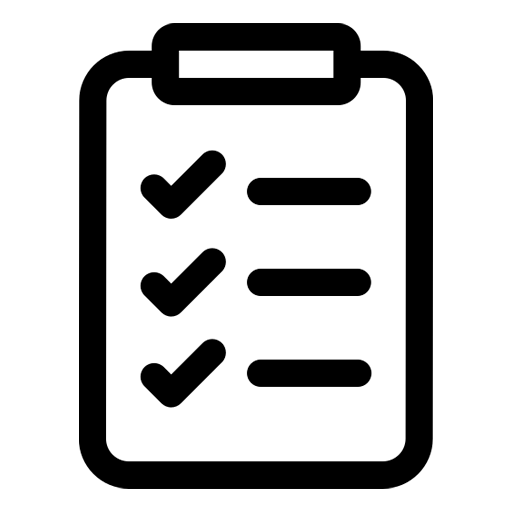
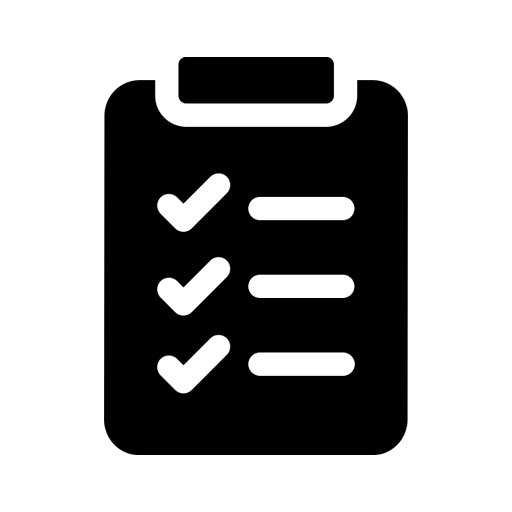
изменен лого

diff --git a/app/auth/signin/page.tsx b/app/auth/signin/page.tsx
@@ -1,0 +1,133 @@
+'use client';
+
+import Loading from '@/app/loading';
+import { signIn, useSession } from 'next-auth/react';
+import { useSearchParams, useRouter } from 'next/navigation';
+import { useState, useEffect } from 'react';
+import { EyeIcon, EyeSlashIcon } from '@heroicons/react/24/outline'; // Импортируем иконки глаз
+
+export default function SignInPage() {
+	const router = useRouter();
+	const searchParams = useSearchParams();
+	const callbackUrl = searchParams.get('callbackUrl') || '/'; // Получаем изначальную страницу или используем `/`
+	const { data: session, status } = useSession(); // добавлен статус сессии
+	const [email, setEmail] = useState('');
+	const [password, setPassword] = useState('');
+	const [nickName, setNickName] = useState('');
+	const [error, setError] = useState('');
+	const [isLoading, setisLoading] = useState(false);
+	const [showPassword, setShowPassword] = useState(false); // Новое состояние для управления видимостью пароля
+
+	useEffect(() => {
+		if (status === 'authenticated') {
+			console.log('sessionUseEf:', session);
+			// Если пользователь уже аутентифицирован, сразу перенаправляем
+			router.push(callbackUrl);
+		}
+	}, [status, router, callbackUrl, session]);
+
+	const handleSignIn = async (e: React.FormEvent) => {
+		e.preventDefault();
+		//setisLoading(true);
+		try {
+			const result = await signIn('credentials', {
+				redirect: false,
+				email,
+				password,
+				nickName,
+				callbackUrl: callbackUrl,
+			});
+
+			if (!result?.ok) {
+				setError('Неверный email или пароль.');
+			} else {
+				setError('');
+				setisLoading(true);
+				window.location.href = callbackUrl;
+			}
+		} catch (err) {
+			setError('Ошибка при входе. Попробуйте снова.');
+			console.error(err);
+		}
+	};
+
+	if (isLoading) {
+		return <Loading />;
+	}
+
+	return (
+		<div className='container mx-auto px-4 flex flex-col space-y-6 max-w-screen-sm items-center'>
+			<div className='p-8 flex flex-col items-center space-y-6'>
+				<h1 className='text-4xl text-center font-bold mb-4'>Вход</h1>
+
+				<form onSubmit={handleSignIn} className='w-full max-w-md space-y-4'>
+					{error && <div className='text-red-500 text-sm'>{error}</div>}
+					<div className='flex flex-col'>
+						<label htmlFor='email' className='mb-1 font-medium'>
+							Email
+						</label>
+						<input
+							type='email'
+							id='email'
+							value={email}
+							onChange={e => setEmail(e.target.value)}
+							required
+							className='input input-bordered w-full max-w-xs'
+						/>
+					</div>
+					<div className='flex flex-col'>
+						<label htmlFor='nickName' className='mb-1 font-medium'>
+							Никнейм (опционально)
+						</label>
+						<input
+							type='text'
+							id='nickName'
+							value={nickName}
+							onChange={e => setNickName(e.target.value)}
+							className='input input-bordered w-full max-w-xs'
+						/>
+					</div>
+					<div className='flex flex-col'>
+						<div className='flex items-center'>
+							<label htmlFor='password' className='mb-1 font-medium mr-2'>
+								Пароль
+							</label>
+							<button
+								type='button'
+								onClick={() => setShowPassword(!showPassword)}
+								className='ml-auto'
+							>
+								{showPassword ? (
+									<EyeSlashIcon className='h-6 w-6 text-gray-600' />
+								) : (
+									<EyeIcon className='h-6 w-6 text-gray-600' />
+								)}
+							</button>
+						</div>
+						<div className='relative w-full max-w-xs'>
+							<input
+								type={showPassword ? 'text' : 'password'}
+								id='password'
+								value={password}
+								onChange={e => setPassword(e.target.value)}
+								required
+								className='input input-bordered w-full pr-16'
+							/>
+						</div>
+					</div>
+
+					<button type='submit' className='btn btn-outline w-full'>
+						Войти
+					</button>
+				</form>
+
+				<button
+					className='btn btn-outline w-full'
+					onClick={() => signIn('google', { callbackUrl })}
+				>
+					Войти через Google
+				</button>
+			</div>
+		</div>
+	);
+}

diff --git a/app/loading.tsx b/app/loading.tsx
@@ -1,0 +1,17 @@
+import LoadingBars from "@/app/components/LoadingBars";
+
+export default function Loading() {
+	return (
+		<div className='container mx-auto px-4 flex flex-col space-y-6 max-w-screen-sm items-center '>
+			<div className='p-8 flex flex-col items-center space-y-6'>
+				<h1 className='text-3xl text-center font-bold tracking-tight text-gray-900'>
+					Школа112 - Лучший проект для помощи ученику
+				</h1>
+				<h3 className='text-2xl text-center font-bold mb-4'>
+					Загрузка данных...
+				</h3>
+				<LoadingBars />
+			</div>
+		</div>
+	);
+}

diff --git a/app/manifest.ts b/app/manifest.ts
@@ -2,8 +2,8 @@ import type { MetadataRoute } from 'next';
 
 export default function manifest(): MetadataRoute.Manifest {
 	return {
-		name: 'Заметки112',
-		short_name: 'Заметки112',
+		name: 'Заметки',
+		short_name: 'Заметки',
 		description: 'Приложение для создания списка планируемых дел и задач',
 		start_url: '/',
 		display: 'standalone',

diff --git a/app/components/LoadingBars.tsx b/app/components/LoadingBars.tsx
@@ -1,0 +1,10 @@
+export default function LoadingBars(){
+  return (
+		<div className='inline-flex space-x-2'>
+			<span className='loading loading-bars loading-xs'></span>
+			<span className='loading loading-bars loading-sm'></span>
+			<span className='loading loading-bars loading-md'></span>
+			<span className='loading loading-bars loading-lg'></span>
+		</div>
+	);
+}
